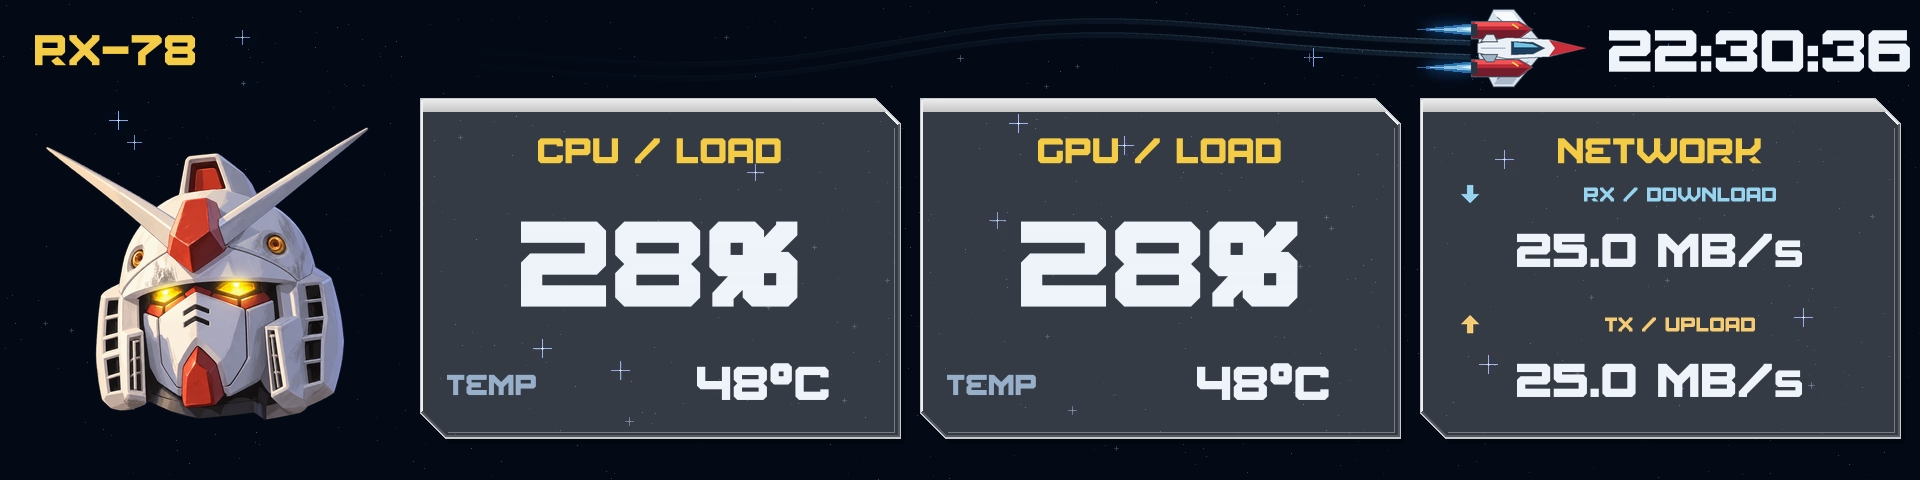
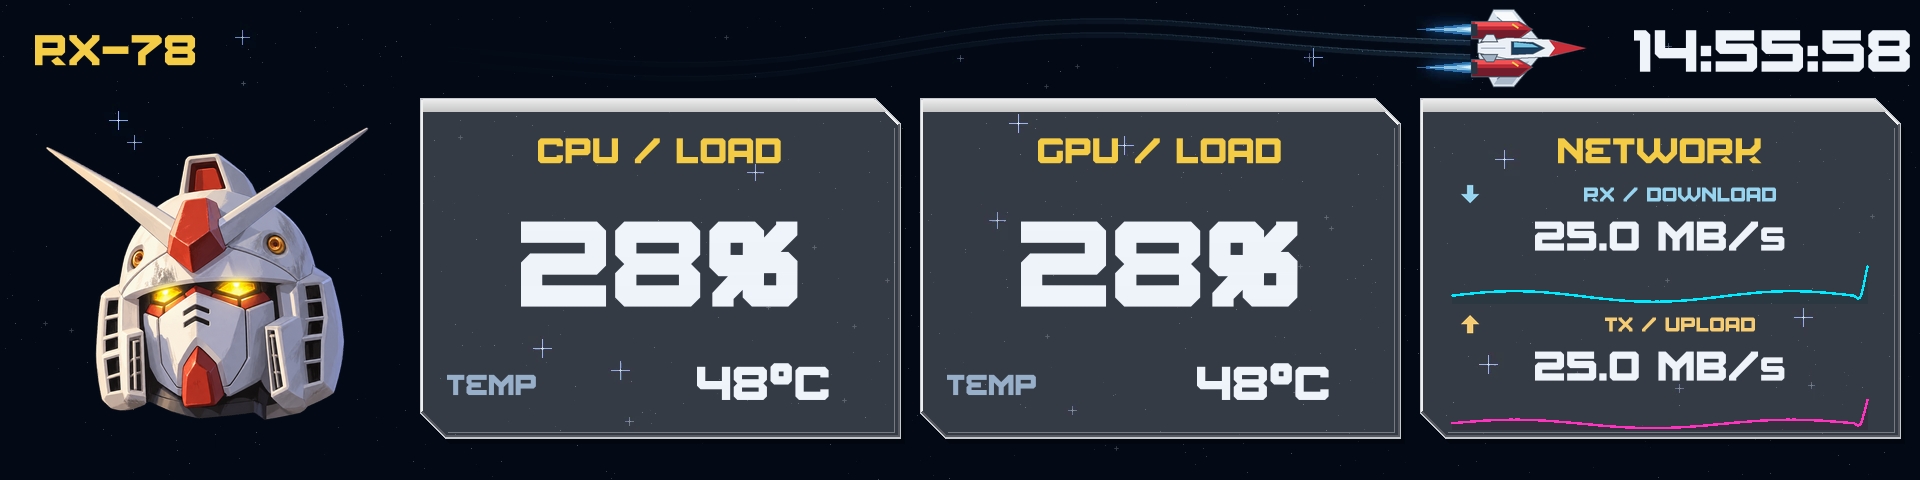
[TEMPLATE] update RX-78 Flight Enhanced network histories (#306)

diff --git a/templates/assets/rx78-flight-enhanced/README.md b/templates/assets/rx78-flight-enhanced/README.md
@@ -4,10 +4,12 @@ Animated 1920×480 horizontal dashboard for the Universal Screen 8.8-inch. A sep
 
 CPU/GPU utilization is the main numerical readout, with temperatures below. LOAD text is white through 75%, amber above 75% through 90%, and red above 90%. The right-hand panel shows RX/download and TX/upload in decimal MB/s with directional arrows. Network readings count all traffic on the chosen interface, not just Internet transfers. Review network bindings after changing Wi-Fi, Ethernet or VPN connections.
 
-All six sensor widgets use portable sensor categories. Install through Browse Online Templates and confirm the detected sources. Installation clears each category marker when assigning its source; unavailable categories retain their marker and display N/A until selected in the editor. The neutral sources in the portable JSON are placeholders, not actual CPU/GPU temperature or usage bindings.
+The network panel now includes cyan download and magenta upload history curves, inspired by Neon (Horizontal) by @superfatman; see CREDITS.md. Each native sparkline retains 60 samples at one sample per second, with smoothing, translucent fill and independent automatic scaling. Histories fill during the first minute and reset when the renderer is recreated. Equal curve heights do not imply equal download/upload speeds because the axes scale independently. The numeric readouts are slightly smaller to make room; CPU/GPU widgets and the rest of the layout are unchanged.
+
+All eight sensor widgets use portable sensor categories. Install through Browse Online Templates and confirm the detected sources. Each network value and its history share the same category and therefore the same selected interface. Installation clears each category marker when assigning its source; unavailable categories retain their marker and display N/A or an empty graph until selected in the editor. The neutral sources in the portable JSON are placeholders, not actual CPU/GPU temperature or usage bindings.
 
 The head illustration is outside the panels on the left. White panel interiors have 20% opacity and a subtle bevel. A small top-down booster-inspired jet sits beside the right-aligned clock, with a fading static trail. Twinkling stars and gently pulsing blue engine exhaust share one 12-second, 1920×480 H.264 background video at 8 fps; the jet and trail remain stationary. FFmpeg must be available in the daemon environment. The animated background uses more resources than the original static template; no performance benchmark is claimed.
 
-The local layout, animation and sensor display were approved by @marvinduranr on a Universal Screen 8.8-inch in horizontal 1920×480 LCD mode, using Lian Li Linux 1.2.6 in Fedora 44 Distrobox on Bazzite with an AMD RX 9070 XT. Full installation of this new variant through the upstream catalog remains untested until publication. The preview uses simulated sensor readings.
+The original local layout, animation and sensor display were approved by @marvinduranr on a Universal Screen 8.8-inch in horizontal 1920×480 LCD mode, using Lian Li Linux 1.2.6 in Fedora 44 Distrobox on Bazzite with an AMD RX 9070 XT. The network-history revision was prepared as a separate local test variant; its axis font paths were corrected after Installation Health identified unresolved relative paths in the local installer. Live hardware confirmation and upstream catalog installation of this revision remain pending. The catalog keeps the existing rx78-flight-enhanced ID, name and folder so it updates the current entry instead of adding another template. The native-renderer preview uses simulated sensor readings.
 
 This is unofficial, noncommercial fan work. Retain the per-asset credits, CC BY-NC 3.0 text, and the separate Amuro font license notices. See CREDITS.md.

diff --git a/templates/assets/rx78-flight-enhanced/CREDITS.md b/templates/assets/rx78-flight-enhanced/CREDITS.md
@@ -22,4 +22,11 @@ The original, unmodified Amuro.otf is bundled with Amuro-OFL.txt and Amuro-Readm
 
 The layout, translucent beveled panels, generated starfield, fading trajectory, geometric booster-inspired jet, engine-pulse animation and RX/TX arrows were created by Marvin Duran with OpenAI Codex and are offered under CC BY-NC 3.0. No additional third-party jet illustration or star photograph is included. The new starfield is procedural rather than the original template's AI-generated texture.
 
+## Network history visualization
+
+Network history visualization inspired by Neon (Horizontal) by [@superfatman](https://github.com/superfatman). Its download/upload sparkline configuration was adapted for the RX-78 dashboard using the shared renderer's native controls. Thank you for the inspiration!
+
+Reference: https://github.com/sgtaziz/lian-li-linux/tree/main/templates/assets/neon-horizontal
+No Neon artwork or fonts are included in this template.
+
 Retain these per-asset notices; do not describe the whole package as MIT licensed. Preview sensor readings are simulated.
